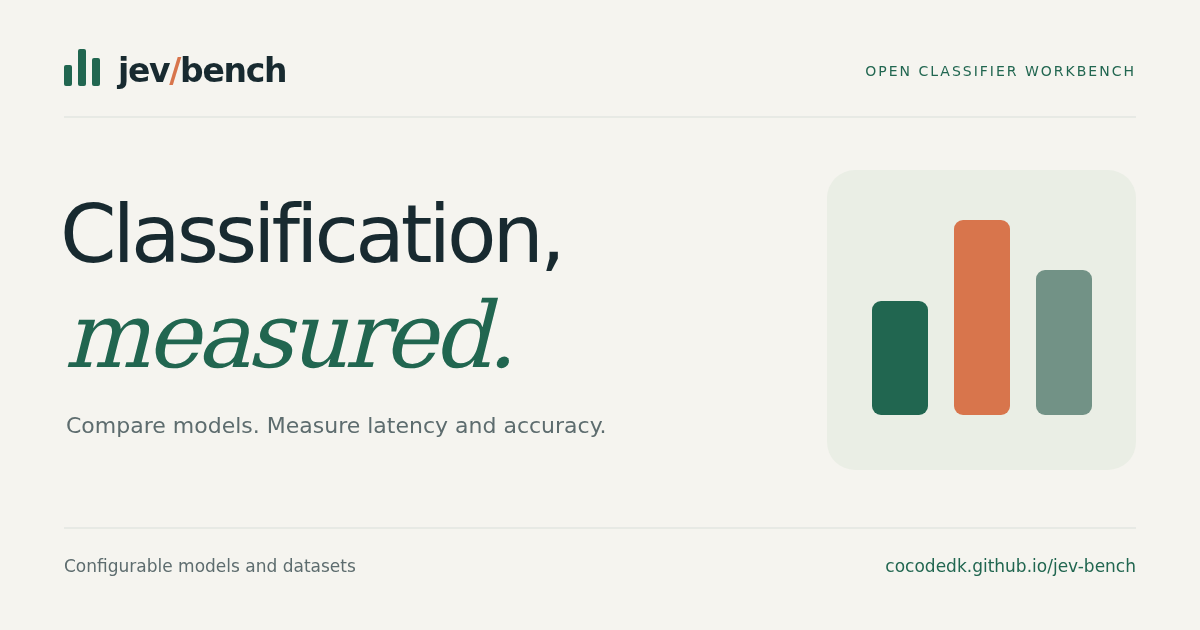
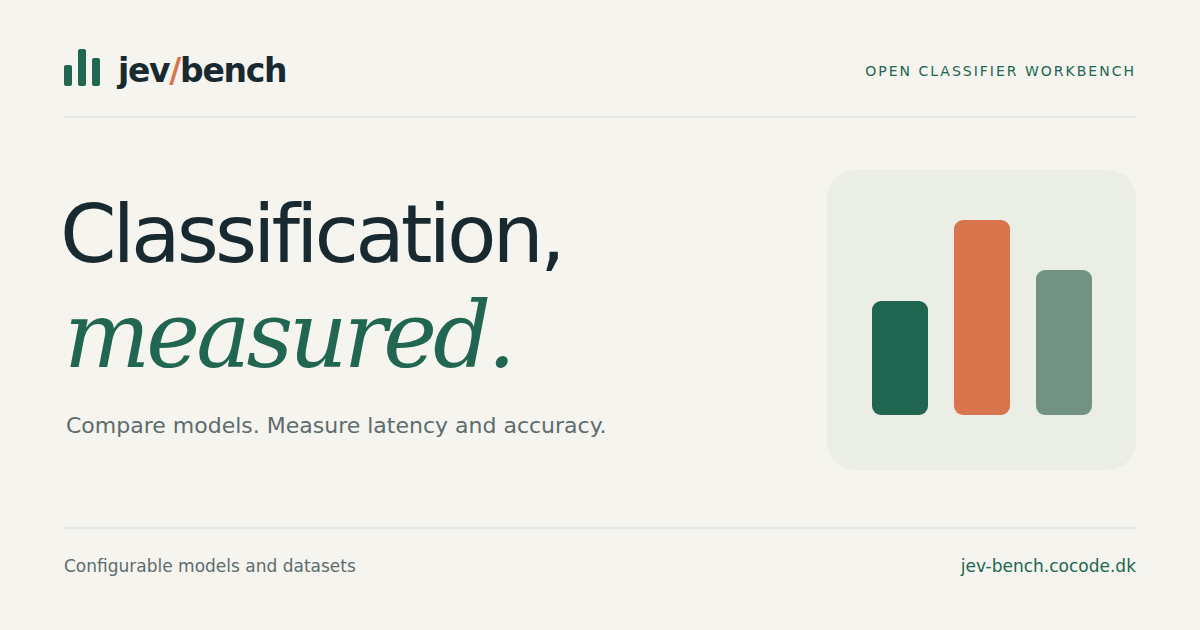
chore: serve the site at jev-bench.cocode.dk (#1)
Every cocodedk project site lives on its own subdomain; this one had none. The DNS
record is in place and GitHub Pages is set to the custom domain.

- website/CNAME, so a deploy cannot drop the domain
- canonical, hreflang, Open Graph, structured data, sitemap, robots and llms.txt now
  name jev-bench.cocode.dk instead of cocodedk.github.io/jev-bench/, which will only
  redirect there
- the share image says the new address too, and og-image.png is re-rendered from it

The page's own links are relative, so serving from a domain root needs nothing else.

Claude-Session: https://claude.ai/code/session_01WmQqqeymFbDafWkmJCSYuR

diff --git a/website/index.html b/website/index.html
@@ -11,9 +11,9 @@
   <meta property="og:type" content="website">
   <meta property="og:site_name" content="Jev Bench">
   <meta property="og:locale" content="en_GB">
-  <meta property="og:url" content="https://cocodedk.github.io/jev-bench/">
-  <meta property="og:image" content="https://cocodedk.github.io/jev-bench/og-image.png">
-  <meta property="og:image:secure_url" content="https://cocodedk.github.io/jev-bench/og-image.png">
+  <meta property="og:url" content="https://jev-bench.cocode.dk/">
+  <meta property="og:image" content="https://jev-bench.cocode.dk/og-image.png">
+  <meta property="og:image:secure_url" content="https://jev-bench.cocode.dk/og-image.png">
   <meta property="og:image:type" content="image/png">
   <meta property="og:image:width" content="1200">
   <meta property="og:image:height" content="630">
@@ -21,9 +21,9 @@
   <meta name="twitter:card" content="summary_large_image">
   <meta name="twitter:title" content="Jev Bench — a classifier workbench">
   <meta name="twitter:description" content="Compare classification models using repeatable datasets, measured latency, label accuracy, and downloadable results.">
-  <meta name="twitter:image" content="https://cocodedk.github.io/jev-bench/og-image.png">
+  <meta name="twitter:image" content="https://jev-bench.cocode.dk/og-image.png">
   <meta name="twitter:image:alt" content="Jev Bench: Classification, measured — compare models, latency, and accuracy, with a green and orange three-bar mark.">
-  <link rel="canonical" href="https://cocodedk.github.io/jev-bench/">
+  <link rel="canonical" href="https://jev-bench.cocode.dk/">
   <link rel="icon" href="favicon.ico" sizes="16x16 32x32 48x48">
   <link rel="icon" type="image/png" href="favicon-96.png" sizes="96x96">
   <link rel="icon" type="image/svg+xml" href="favicon.svg" sizes="any">
@@ -34,20 +34,20 @@
 {
   "@context": "https://schema.org",
   "@type": "WebPage",
-  "@id": "https://cocodedk.github.io/jev-bench/#webpage",
-  "url": "https://cocodedk.github.io/jev-bench/",
+  "@id": "https://jev-bench.cocode.dk/#webpage",
+  "url": "https://jev-bench.cocode.dk/",
   "name": "Jev Bench \u2014 a classifier workbench",
   "description": "Compare classification API latency and label accuracy with configurable models, repeatable datasets, and published results.",
   "inLanguage": "en",
   "primaryImageOfPage": {
     "@type": "ImageObject",
-    "url": "https://cocodedk.github.io/jev-bench/og-image.png",
+    "url": "https://jev-bench.cocode.dk/og-image.png",
     "width": 1200,
     "height": 630
   },
   "about": {
     "@type": "SoftwareSourceCode",
-    "@id": "https://cocodedk.github.io/jev-bench/#source",
+    "@id": "https://jev-bench.cocode.dk/#source",
     "name": "Jev Bench",
     "codeRepository": "https://github.com/cocodedk/jev-bench",
     "programmingLanguage": [

diff --git a/README.md b/README.md
@@ -2,7 +2,7 @@
 
 A classifier workbench for repeatable API experiments: configure models and datasets, measure request latency and label correctness, and publish selected results.
 
-**[Explore the results](https://cocodedk.github.io/jev-bench/)** · [Latest OpenRouter comparison](results/baseline-workbench-2026-09-21/RESULTS.md) · [Jev vs. Laya](results/baseline-classifier-models-2026-09-21/RESULTS.md)
+**[Explore the results](https://jev-bench.cocode.dk/)** · [Latest OpenRouter comparison](results/baseline-workbench-2026-09-21/RESULTS.md) · [Jev vs. Laya](results/baseline-classifier-models-2026-09-21/RESULTS.md)
 
 ## Run an experiment
 
@@ -97,7 +97,7 @@ node scripts/prove_site.mjs
 lintp jev_bench tests scripts website web-tests
 ```
 
-The Python and JavaScript suites assert their test counts. The browser proof requires Node 22+ and Chrome, writes reports/screenshots under ignored `proof/`, and accepts `--url https://cocodedk.github.io/jev-bench/` and `--output proof/live`. It drives the native tools through `getTools()` / `executeTool()` and checks the displayed result state in desktop and mobile viewports; it also verifies clean loading without WebMCP.
+The Python and JavaScript suites assert their test counts. The browser proof requires Node 22+ and Chrome, writes reports/screenshots under ignored `proof/`, and accepts `--url https://jev-bench.cocode.dk/` and `--output proof/live`. It drives the native tools through `getTools()` / `executeTool()` and checks the displayed result state in desktop and mobile viewports; it also verifies clean loading without WebMCP.
 
 [`website/webmcp.js`](website/webmcp.js) registers `describe`, `list_runs`, `get_results`, `select_run`, and `set_metric`; [`llms.txt`](website/llms.txt) describes each tool and its closed response envelope. They share the page's controls and state, make no classifier calls, and send no third-party requests. Native WebMCP is a draft: this build was verified in Chrome 153 with `--enable-features=WebMCP`; ordinary browsers use the same human controls without the API. Re-check the [current specification](https://webmachinelearning.github.io/webmcp/) before changing the integration.
 
